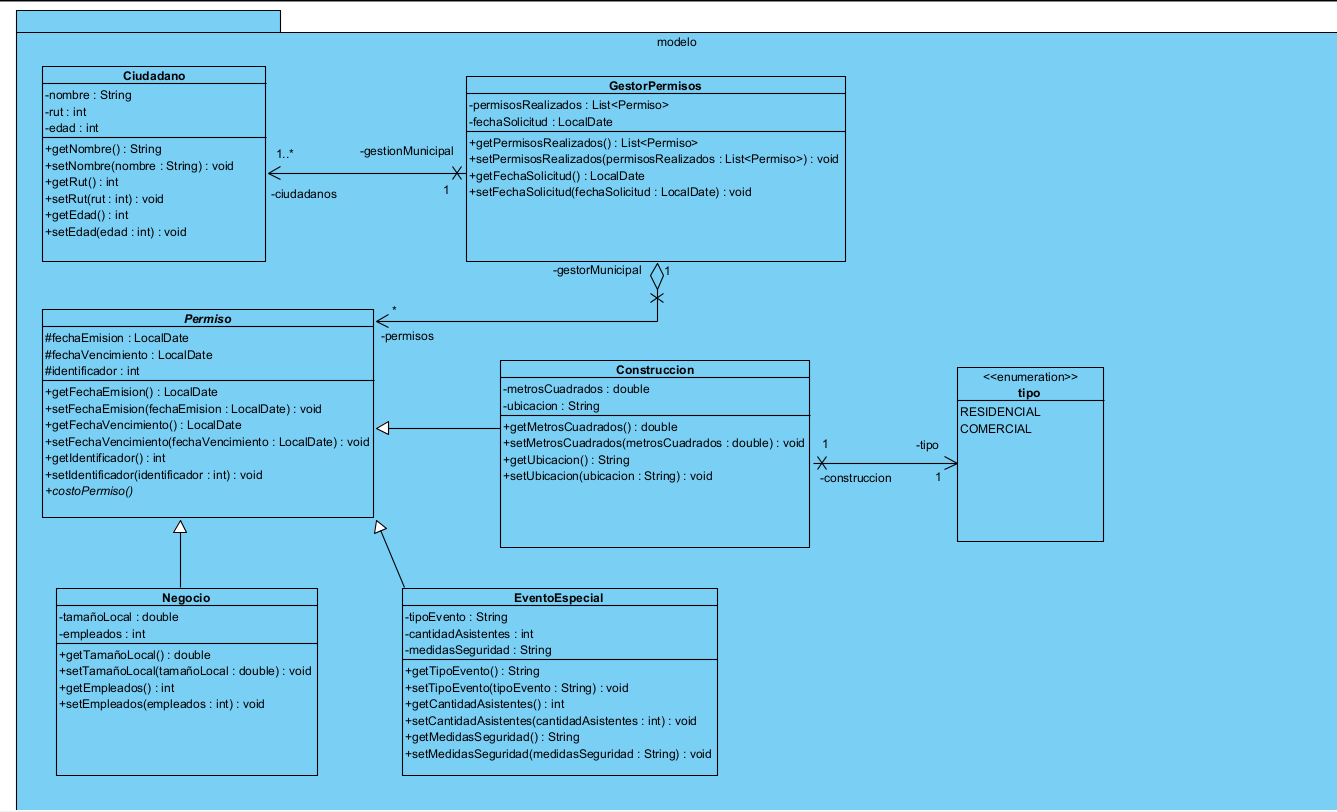
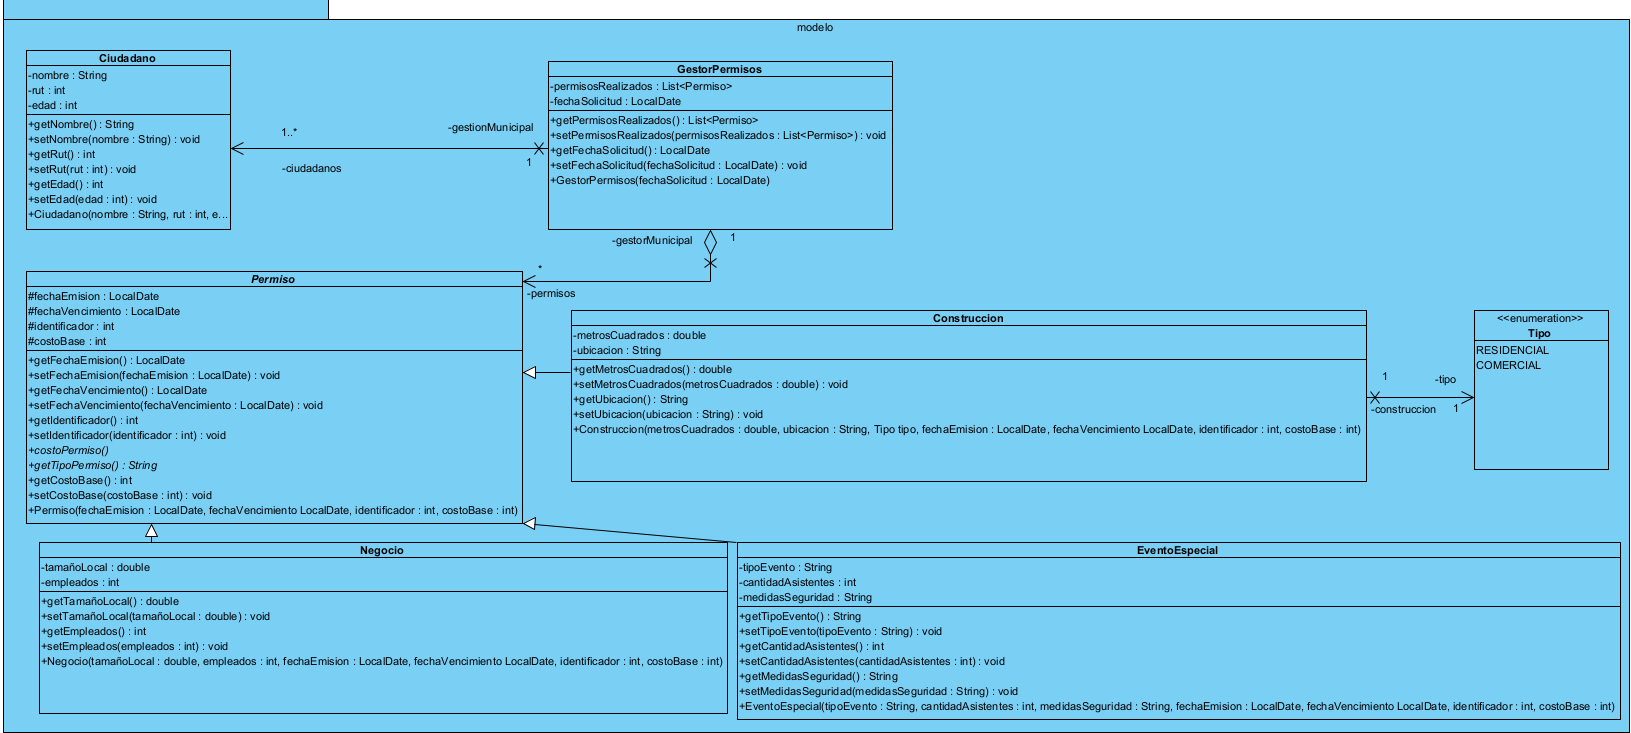
ultimo commit con todas las clases y metodos listos

diff --git a/src/main/java/modelo/GestorPermisos.java b/src/main/java/modelo/GestorPermisos.java
@@ -47,4 +47,53 @@ public class GestorPermisos {
 		this.ciudadanos = new ArrayList<>();
 		this.permisos = new ArrayList<>();
 	}
+	public boolean ciudadanoExiste(Ciudadano ciudadano){
+		for (Ciudadano c : this.ciudadanos){
+			if(ciudadano.getRut()==c.getRut()){
+				return true;
+			}
+		} return false;
+	}
+	public void agregarCiudadano(Ciudadano ciudadano){
+		if(!ciudadanoExiste(ciudadano)){
+			this.ciudadanos.add(ciudadano);
+			System.out.println("Ciudadano " + ciudadano.getNombre() + " agregado correctamente");
+		}
+	}
+	public boolean permisoExiste(Permiso permiso){
+		for (Permiso p : this.permisos){
+			if(permiso.getIdentificador()==p.getIdentificador()){
+				return true;
+			}
+		} return false;
+	}
+	public void registrarPermiso(Permiso permiso){
+		if(!permisoExiste(permiso)){
+			this.permisos.add(permiso);
+			System.out.println("Permiso registrado correctamente");
+		}
+	}
+	public List<Permiso> buscarPermisosCiudadano(Ciudadano ciudadano){
+		List<Permiso> permisosCiudadano = ciudadano.getPermisos();
+		System.out.println("Permisos del Ciudadano guardados correctamente");
+		return permisosCiudadano;
+	}
+	public List<Permiso> buscarPermisos(String tipo, LocalDate fechaEmision, LocalDate fechaVencimiento){
+		List<Permiso> permisosTipo = new ArrayList<>();
+		for(Permiso permiso : this.permisos){
+			if(permiso.getTipoPermiso().equals(tipo)&&permiso.getFechaEmision().equals(fechaEmision)&&permiso.getFechaVencimiento().equals(fechaVencimiento)){
+				permisosTipo.add(permiso);
+			}
+		} return permisosTipo;
+	}
+	public void mostrarPermisosCiudadano(Ciudadano ciudadano){
+		List<Permiso> permisosMostrar = buscarPermisosCiudadano(ciudadano);
+		System.out.println("Los permisos del ciudadano se mostraran a continuacion: ");
+		for(Permiso permiso : permisosMostrar){
+			System.out.println(permiso.getIdentificador());
+		}
+	}
+	public void mostrarInfoPermiso(Permiso permiso){
+		permiso.mostrarDetallesPermiso();
+	}
 }

diff --git a/src/main/java/modelo/Construccion.java b/src/main/java/modelo/Construccion.java
@@ -1,5 +1,6 @@
 package modelo;
 
+import java.sql.SQLOutput;
 import java.time.LocalDate;
 
 public class Construccion extends Permiso {
@@ -10,26 +11,46 @@ public class Construccion extends Permiso {
 	public double getMetrosCuadrados() {
 		return this.metrosCuadrados;
 	}
-
 	public void setMetrosCuadrados(double metrosCuadrados) {
 		this.metrosCuadrados = metrosCuadrados;
 	}
-
 	public String getUbicacion() {
 		return this.ubicacion;
 	}
-
 	public void setUbicacion(String ubicacion) {
 		this.ubicacion = ubicacion;
 	}
+	public Tipo getTipo() {
+		return tipo;
+	}
+	public void setTipo(Tipo tipo) {
+		this.tipo = tipo;
+	}
 
-	public Construccion(LocalDate fechaEmision, LocalDate fechaVencimiento, int identificador, double metrosCuadrados, String ubicacion, Tipo tipo) {
-		super(fechaEmision, fechaVencimiento, identificador);
+	public Construccion(LocalDate fechaEmision, LocalDate fechaVencimiento, int identificador, int costoBase, double metrosCuadrados, String ubicacion, Tipo tipo) {
+		super(fechaEmision, fechaVencimiento, identificador, costoBase);
 		this.metrosCuadrados = metrosCuadrados;
 		this.ubicacion = ubicacion;
 		this.tipo = tipo;
 	}
-	public void costoPermiso() {
-		throw new UnsupportedOperationException();
+
+	public double costoPermiso() {
+		return costoBase + (metrosCuadrados * 150000);
+	}
+	@Override
+	public String getTipoPermiso() {
+		return "Construccion";
+	}
+
+	@Override
+	public void mostrarDetallesPermiso() {
+		System.out.println("Fecha de emision: " + fechaEmision);
+		System.out.println("Fecha de vencimiento: " + fechaVencimiento);
+		System.out.println("Identificador: "+ identificador);
+		System.out.println("Costo base: " + costoBase);
+		System.out.println("Costo total: " + costoPermiso());
+		System.out.println("Metros cuadrados: " + metrosCuadrados);
+		System.out.println("Ubicacion: " + ubicacion);
+		System.out.println("Tipo de construccion: " + tipo);
 	}
 }

diff --git a/src/main/java/modelo/EventoEspecial.java b/src/main/java/modelo/EventoEspecial.java
@@ -31,14 +31,29 @@ public class EventoEspecial extends Permiso {
 		this.medidasSeguridad = medidasSeguridad;
 	}
 
-	public EventoEspecial(LocalDate fechaEmision, LocalDate fechaVencimiento, int identificador, String tipoEvento, int cantidadAsistentes, String medidasSeguridad) {
-		super(fechaEmision, fechaVencimiento, identificador);
+	public EventoEspecial(LocalDate fechaEmision, LocalDate fechaVencimiento, int identificador, int costoBase, String tipoEvento, int cantidadAsistentes, String medidasSeguridad) {
+		super(fechaEmision, fechaVencimiento, identificador, costoBase);
 		this.tipoEvento = tipoEvento;
 		this.cantidadAsistentes = cantidadAsistentes;
 		this.medidasSeguridad = medidasSeguridad;
 	}
+	public double costoPermiso() {
+		return costoBase + ((cantidadAsistentes/100)*100000);
+	}
+	@Override
+	public String getTipoPermiso() {
+		return "Evento Especial";
+	}
 
-	public void costoPermiso() {
-		throw new UnsupportedOperationException();
+	@Override
+	public void mostrarDetallesPermiso() {
+		System.out.println("Fecha de emision: " + fechaEmision);
+		System.out.println("Fecha de vencimiento: " + fechaVencimiento);
+		System.out.println("Identificador: "+ identificador);
+		System.out.println("Costo base: " + costoBase);
+		System.out.println("Costo total: " + costoPermiso());
+		System.out.println("Tipo de evento: " + tipoEvento);
+		System.out.println("Cantidad de asistentes: " + cantidadAsistentes);
+		System.out.println("Medidas de seguridad: " + medidasSeguridad);
 	}
 }

diff --git a/src/main/java/modelo/Negocio.java b/src/main/java/modelo/Negocio.java
@@ -22,13 +22,28 @@ public class Negocio extends Permiso {
 		this.empleados = empleados;
 	}
 
-	public Negocio(LocalDate fechaEmision, LocalDate fechaVencimiento, int identificador, double tamañoLocal, int empleados) {
-		super(fechaEmision, fechaVencimiento, identificador);
+	public Negocio(LocalDate fechaEmision, LocalDate fechaVencimiento, int identificador, int costoBase, double tamañoLocal, int empleados) {
+		super(fechaEmision, fechaVencimiento, identificador, costoBase);
 		this.tamañoLocal = tamañoLocal;
 		this.empleados = empleados;
 	}
+	public double costoPermiso() {
+		return costoBase + (tamañoLocal * 150000) + (empleados * 20000);
+	}
 
-	public void costoPermiso() {
-		throw new UnsupportedOperationException();
+	@Override
+	public String getTipoPermiso() {
+		return "Negocio";
+	}
+
+	@Override
+	public void mostrarDetallesPermiso() {
+		System.out.println("Fecha de emision: " + fechaEmision);
+		System.out.println("Fecha de vencimiento: " + fechaVencimiento);
+		System.out.println("Identificador: "+ identificador);
+		System.out.println("Costo base: " + costoBase);
+		System.out.println("Costo total: " + costoPermiso());
+		System.out.println("Tamaño local: " + tamañoLocal);
+		System.out.println("Cantidad de empleados: " +empleados);
 	}
 }

diff --git a/src/main/java/modelo/Permiso.java b/src/main/java/modelo/Permiso.java
@@ -6,6 +6,7 @@ public abstract class Permiso {
 	protected LocalDate fechaEmision;
 	protected LocalDate fechaVencimiento;
 	protected int identificador;
+	protected int costoBase;
 
 	public LocalDate getFechaEmision() {
 		return this.fechaEmision;
@@ -30,12 +31,19 @@ public abstract class Permiso {
 	public void setIdentificador(int identificador) {
 		this.identificador = identificador;
 	}
-
-	public abstract void costoPermiso();
-
-	public Permiso(LocalDate fechaEmision, LocalDate fechaVencimiento, int identificador) {
+	public int getCostoBase() {
+		return costoBase;
+	}
+	public void setCostoBase(int costoBase) {
+		this.costoBase = costoBase;
+	}
+	public abstract double costoPermiso();
+	public abstract String getTipoPermiso();
+	public Permiso(LocalDate fechaEmision, LocalDate fechaVencimiento, int identificador, int costoBase) {
 		this.fechaEmision = fechaEmision;
 		this.fechaVencimiento = fechaVencimiento;
 		this.identificador = identificador;
+		this.costoBase = costoBase;
 	}
+	public abstract void mostrarDetallesPermiso();
 }

diff --git a/src/main/java/modelo/Ciudadano.java b/src/main/java/modelo/Ciudadano.java
@@ -1,9 +1,13 @@
 package modelo;
 
+import java.util.ArrayList;
+import java.util.List;
+
 public class Ciudadano {
 	private String nombre;
 	private int rut;
 	private int edad;
+	private List<Permiso> permisos;
 
 	public String getNombre() {
 		return this.nombre;
@@ -28,10 +32,17 @@ public class Ciudadano {
 	public void setEdad(int edad) {
 		this.edad = edad;
 	}
+	public List<Permiso> getPermisos() {
+		return permisos;
+	}
+	public void setPermisos(List<Permiso> permisos) {
+		this.permisos = permisos;
+	}
 
 	public Ciudadano(String nombre, int rut, int edad) {
 		this.nombre = nombre;
 		this.rut = rut;
 		this.edad = edad;
+		this.permisos = new ArrayList<>();
 	}
 }

diff --git a/README.md b/README.md
@@ -1,9 +1,9 @@
 # Analisis Problematica
 Mediante una clase llamada GestorPermiso voy a gestionar a las clases ciudadano y permiso, teniendo una lista de ciudadanos y una lista de permisos, ademas tendre dentro de gestor una lista de permisos realizados del tipo List<.Permiso.>.
-Tendremos una clase Permiso que sera abstracta y sera la clase madre de los tres tipos de permisos que nos piden. Permiso de Construccion, Negocio y Eventos Especiales. En la clase madre tendremos las fechas de emision y vencimiento, el identificador y tambien un metodo abstracto para calcular el costo de permisos.
+Tendremos una clase Permiso que sera abstracta y sera la clase madre de los tres tipos de permisos que nos piden: Permiso de Construccion, Negocio y Eventos Especiales. En la clase madre tendremos las fechas de emision y vencimiento, el identificador, costo base y dos metodos abstractos: uno de los costos, ya que, cada clase hija tiene un metodo para costear diferente y un metodo abstracto getTipoPermiso que devuelve un String para poder identificar mas adelante en la solucion del problema el tipo de cada clase hija.
 En la clase Construccion tendremos los atributos metros cuadrados, ubicacion y un getTipo con un enum para saber si es Residencial o Comercial.
 En la clase Negocio tendremos dos atributos: tamañoLocal y Empleados.
 En la clase EventoEspecial tendremos tres atributos: tipoEvento que sera un atributo tipo String debido a que no especifica, cantidadAsistentes y medidasSeguridad que tambien sera String.
 
 # UML DIAGRAMA
-![img_2.png](img_2.png)
+![img.png](img.png)
